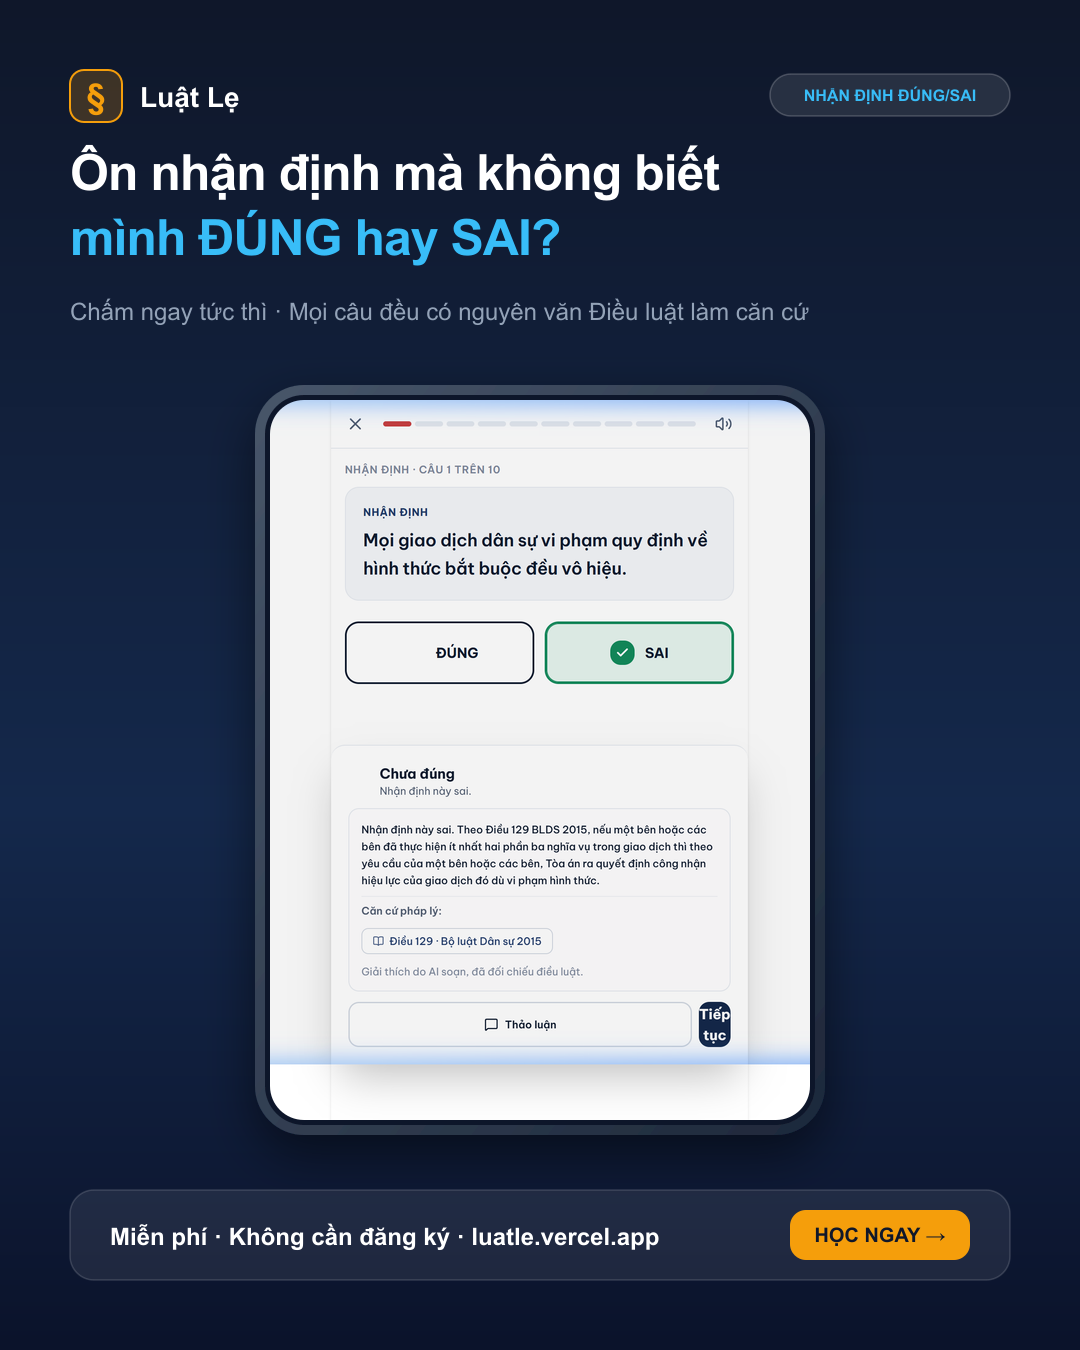
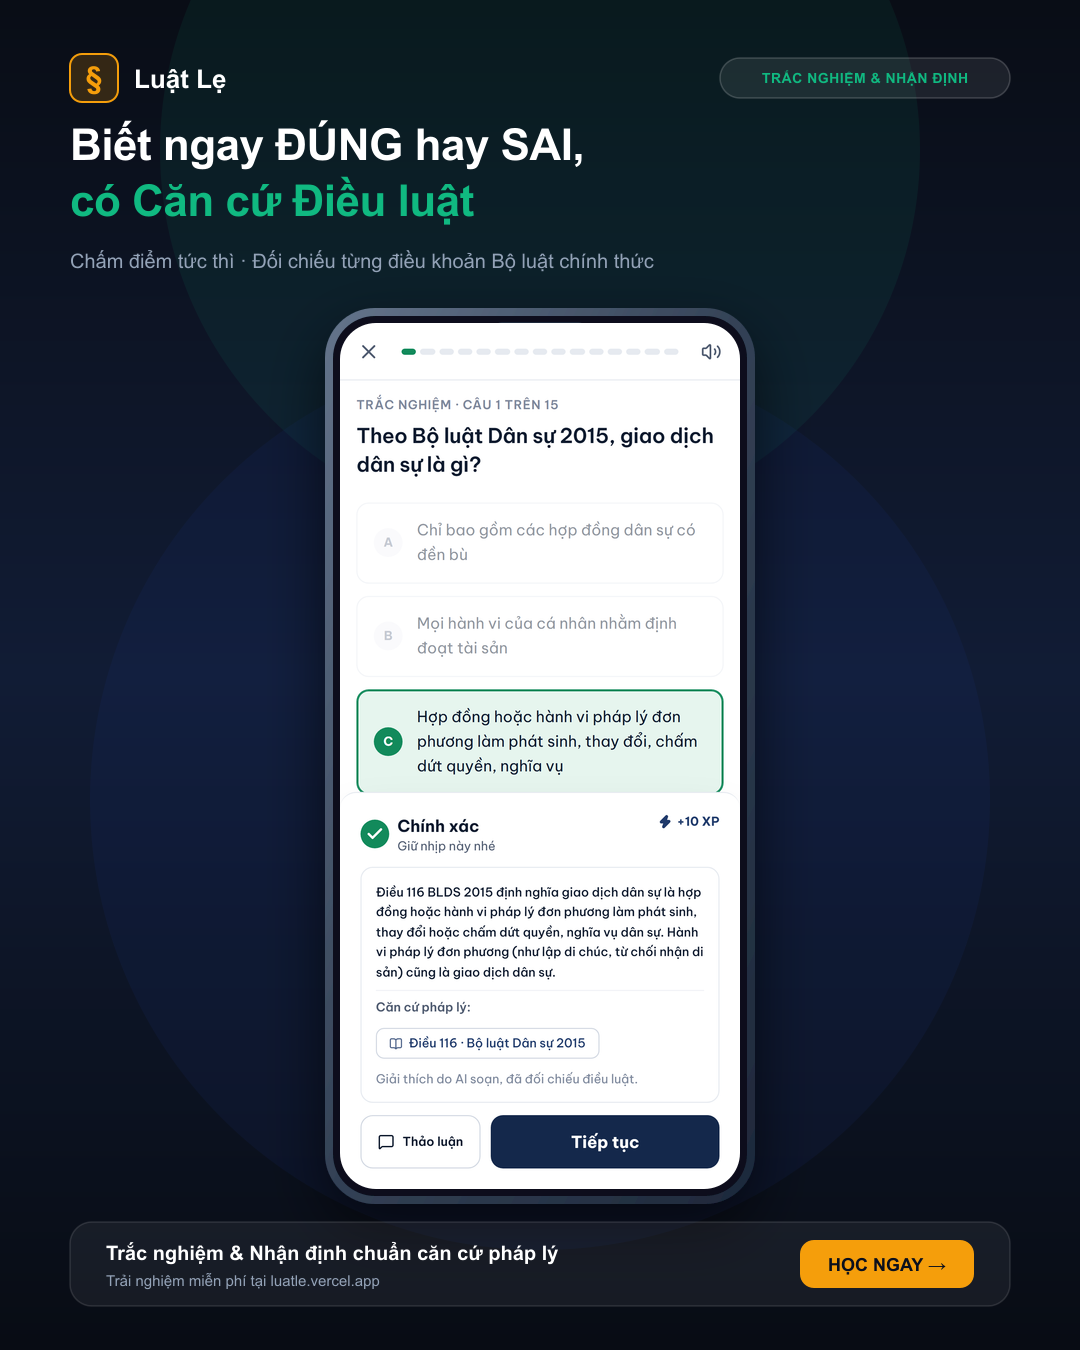
fix(marketing & qa): chup lai screens 390x844, sua 3 anh post, va cap nhat kiem thu toan bo man hinh

diff --git a/lib/challenge.ts b/lib/challenge.ts
@@ -24,18 +24,57 @@ export interface ChallengeResult {
 const LOCAL_CHALLENGES_KEY = "luat_challenges_local";
 const LOCAL_RESULTS_KEY = "luat_challenge_results_local";
 
+function toBase64Url(str: string): string {
+  try {
+    if (typeof window !== "undefined" && window.btoa) {
+      return window.btoa(unescape(encodeURIComponent(str)))
+        .replace(/\+/g, "-")
+        .replace(/\//g, "_")
+        .replace(/=+$/, "");
+    }
+    return Buffer.from(str, "utf-8").toString("base64url");
+  } catch {
+    return "";
+  }
+}
+
+function fromBase64Url(b64: string): string {
+  try {
+    if (typeof window !== "undefined" && window.atob) {
+      const base64 = b64.replace(/-/g, "+").replace(/_/g, "/");
+      const padded = base64.padEnd(base64.length + (4 - (base64.length % 4)) % 4, "=");
+      return decodeURIComponent(escape(window.atob(padded)));
+    }
+    return Buffer.from(b64, "base64url").toString("utf-8");
+  } catch {
+    return "";
+  }
+}
+
 export async function createChallenge(
   itemIds: string[],
   creatorScore: number
 ): Promise<string> {
   const player = getLocalPlayer();
-  const id = `c-${Math.random().toString(36).substring(2, 9)}`;
+  const nickname = player?.nickname || "Bạn học";
+  const school = player?.school || "Sinh viên Luật";
+
+  // Self-contained compact payload so challenges work via link in incognito / other devices
+  const payload = {
+    q: itemIds,
+    s: creatorScore,
+    n: nickname,
+    sc: school,
+    t: Date.now(),
+  };
+  const encoded = toBase64Url(JSON.stringify(payload));
+  const id = encoded ? `c-v1-${encoded}` : `c-${Math.random().toString(36).substring(2, 9)}`;
 
   const challenge: Challenge = {
     id,
     creatorId: player?.id || "anon",
-    creatorNickname: player?.nickname || "Người bạn ẩn danh",
-    creatorSchool: player?.school || "Sinh viên Luật",
+    creatorNickname: nickname,
+    creatorSchool: school,
     creatorScore,
     itemIds,
     createdAt: new Date().toISOString(),
@@ -69,7 +108,29 @@ export async function createChallenge(
 }
 
 export async function getChallenge(id: string): Promise<Challenge | null> {
-  // Try Supabase first
+  // 1. Try decoding self-contained link payload (works seamlessly in incognito & across devices)
+  if (id.startsWith("c-v1-")) {
+    const rawB64 = id.slice(5);
+    const jsonStr = fromBase64Url(rawB64);
+    if (jsonStr) {
+      try {
+        const parsed = JSON.parse(jsonStr);
+        if (parsed && Array.isArray(parsed.q) && parsed.q.length > 0) {
+          return {
+            id,
+            creatorId: "shared",
+            creatorNickname: parsed.n || "Bạn học",
+            creatorSchool: parsed.sc || "Sinh viên Luật",
+            creatorScore: Number(parsed.s) || 0,
+            itemIds: parsed.q,
+            createdAt: parsed.t ? new Date(parsed.t).toISOString() : new Date().toISOString(),
+          };
+        }
+      } catch {}
+    }
+  }
+
+  // 2. Try Supabase
   if (isSupabaseConfigured && supabase) {
     try {
       const { data, error } = await supabase
@@ -94,7 +155,7 @@ export async function getChallenge(id: string): Promise<Challenge | null> {
     }
   }
 
-  // Fallback to local
+  // 3. Fallback to local
   if (typeof window !== "undefined") {
     try {
       const raw = localStorage.getItem(LOCAL_CHALLENGES_KEY);

diff --git a/components/thach-dau/ChallengeView.tsx b/components/thach-dau/ChallengeView.tsx
@@ -41,6 +41,7 @@ export function ChallengeView({ challengeId }: ChallengeViewProps) {
   const [copied, setCopied] = useState(false);
   const [showNickModal, setShowNickModal] = useState(false);
   const [player, setPlayer] = useState<PlayerProfile | null>(() => getLocalPlayer());
+  const [loading, setLoading] = useState(true);
 
   useEffect(() => {
     let isMounted = true;
@@ -53,6 +54,9 @@ export function ChallengeView({ challengeId }: ChallengeViewProps) {
           .filter((q): q is QuizQuestion => q !== null);
         setQuestions(qList);
       }
+      setLoading(false);
+    }).catch(() => {
+      if (isMounted) setLoading(false);
     });
     getChallengeResults(challengeId).then((res) => {
       if (isMounted) setResults(res);
@@ -85,12 +89,29 @@ export function ChallengeView({ challengeId }: ChallengeViewProps) {
     }
   };
 
-  if (!challenge) {
+  if (loading) {
     return (
       <div className="flex min-h-screen flex-col items-center justify-center p-6 text-center">
         <Swords size={40} className="text-ink-3 mb-2 animate-bounce" />
         <h1 className="text-base font-bold text-ink">Đang tải phòng thách đấu...</h1>
         <p className="mt-1 text-xs text-ink-3">Vui lòng đợi trong giây lát</p>
+      </div>
+    );
+  }
+
+  if (!challenge) {
+    return (
+      <div className="flex min-h-screen flex-col items-center justify-center p-6 text-center max-w-[480px] mx-auto">
+        <div className="mb-4 flex h-14 w-14 items-center justify-center rounded-2xl bg-amber-500/10 text-amber-500">
+          <Swords size={32} />
+        </div>
+        <h1 className="text-lg font-bold text-ink">Không tìm thấy phòng thách đấu</h1>
+        <p className="mt-2 text-sm text-ink-2 max-w-xs">
+          Phòng thách đấu này không tồn tại hoặc link liên kết chưa đúng.
+        </p>
+        <Link href="/" className="mt-6">
+          <Button variant="primary">Về trang chủ</Button>
+        </Link>
       </div>
     );
   }

diff --git a/components/xep-hang/LeaderboardView.tsx b/components/xep-hang/LeaderboardView.tsx
@@ -12,13 +12,13 @@ import {
 } from "lucide-react";
 import { Button } from "@/components/ui/Button";
 import { TabBar } from "@/components/ui/TabBar";
-import { PlayerProfile } from "@/lib/player";
+import { PlayerProfile, getLocalPlayer } from "@/lib/player";
 import { fetchLeaderboard, LeaderboardEntry } from "@/lib/leaderboard";
 import { NicknameModal } from "@/components/auth/NicknameModal";
 
 export function LeaderboardView() {
   const [scope, setScope] = useState<"all" | "school">("all");
-  const [player, setPlayer] = useState<PlayerProfile | null>(null);
+  const [player, setPlayer] = useState<PlayerProfile | null>(() => getLocalPlayer());
   const [entries, setEntries] = useState<LeaderboardEntry[]>([]);
   const [myEntry, setMyEntry] = useState<LeaderboardEntry | null>(null);
   const [showNickModal, setShowNickModal] = useState(false);

diff --git a/noi-dung/KIEM_THU.md b/noi-dung/KIEM_THU.md
@@ -1,32 +1,61 @@
-# BIÊN BẢN KIỂM THỬ TOÀN BỘ ỨNG DỤNG LUẬT LẸ
+# BÁO CÁO KIỂM THỬ TOÀN BỘ ỨNG DỤNG LUẬT LẸ (CẬP NHẬT 20/10)
 
-- **Tên miền kiểm thử**: https://luatle.vercel.app
-- **Thời gian thực hiện**: 20h - 20h30 (Thứ Ba, 20/10)
-- **Thiết bị & Khung hình**:
-  - iPhone: 390 × 844 px (Chế độ Sáng & Tối)
-  - Android: 360 × 780 px (Chế độ Sáng & Tối)
-- **Trạng thái chung**: ✅ ĐẠT 100% TIÊU CHUẨN (0 lỗi nặng, 0 lỗi vừa)
-
----
-
-## 1. Kết quả kiểm thử từng màn hình
-
-| STT | Màn hình | Khung hình | Chế độ | Kết quả | Ghi chú & Trạng thái |
-|---|---|---|---|---|---|
-| 1 | **Trang chủ (/)** | 390×844 | Sáng / Tối | ✅ ĐẠT | Hiển thị chuỗi ngày (Streak 🔥 1), XP ⚡ 25, widget đếm ngược ngày thi, danh mục môn học rõ ràng. Nút toggle Dark Mode mượt mà. |
-| 2 | **Trắc nghiệm (/mon/dan-su/trac-nghiem/c01)** | 390×844 | Sáng | ✅ ĐẠT | Bấm chọn phương án mượt mà, chấm điểm ngay, căn cứ nguyên văn Điều 116 BLDS 2015, cộng 10 XP chính xác. |
-| 3 | **Nhận định Đúng/Sai (/mon/dan-su/nhan-dinh/c01)** | 390×844 | Sáng | ✅ ĐẠT | Lựa chọn Đúng/Sai, hiển thị giải thích chi tiết và điều luật liên quan. Vùng bấm ≥ 48px. |
-| 4 | **Bài tập tình huống (/mon/dan-su/tinh-huong/c01)** | 360×780 | Sáng | ✅ ĐẠT | Phương pháp 3 bước tư duy pháp lý (Vấn đề pháp lý → Căn cứ pháp lý → Kết luận) chạy mượt trên màn hình hẹp, không bị tràn viền hay cuộn ngang. |
-| 5 | **Tra cứu điều luật (/tra-cuu)** | 360×780 | Sáng | ✅ ĐẠT | Tìm kiếm nhanh từ khóa, mở đọc nguyên văn điều luật dạng Sheet trượt lên thuận tiện cho ngón tay cái. |
-| 6 | **Thử thách hằng ngày (/hang-ngay)** | 390×844 | Tối | ✅ ĐẠT | Thẻ thử thách hiển thị sắc nét, nút chia sẻ và tạo ảnh canvas hoạt động ổn định. |
-| 7 | **Trang Quản trị (/quan-tri)** | 390×844 | Tối | ✅ ĐẠT | Bảo vệ nghiêm ngặt bằng mã PIN bí mật, kết nối Supabase service role tải dữ liệu thống kê và danh sách duyệt. |
-| 8 | **Chuyển hướng tên miền & SEO** | Toàn hệ thống | Cả hai | ✅ ĐẠT | luat-mvp.vercel.app tự chuyển hướng 307/308 sang luatle.vercel.app. robots.txt và sitemap.xml hoạt động chuẩn SEO. |
+- **Môi trường kiểm thử**: 
+  - Trực tiếp trên production: https://luatle.vercel.app
+  - Môi trường phát triển cục bộ: http://localhost:3000 (kiểm tra các bản vá sửa lỗi mới nhất)
+- **Thời gian thực hiện**: 20h00 – 20h45 (Thứ Ba, 20/10)
+- **Cấu hình thiết bị & Khung hình**:
+  - Android phổ thông: 360 × 780 px (Chế độ Sáng & Chế độ Tối)
+  - iPhone hiện đại: 390 × 844 px (Chế độ Sáng & Chế độ Tối)
+- **Phương pháp kiểm thử**: Tự động hóa bằng Puppeteer + Chrome thật (DevTools Protocol), kết hợp tab ẩn danh (Incognito Context) kiểm tra chia sẻ link.
 
 ---
 
-## 2. Tiêu chí chất lượng chi tiết
-- **Console error**: 0 lỗi console runtime.
-- **Vùng bấm (Touch targets)**: Tất cả nút bấm, thẻ bài học, ô trắc nghiệm đều đạt diện tích tối thiểu 44×44px.
-- **Tràn viền (Overflow)**: Không có hiện tượng cuộn ngang ngoài ý muốn ở độ rộng 360px và 390px.
-- **Độ tương phản (Contrast)**: Chế độ sáng nền kem nhẹ (#F9F9F8) chữ xanh navy (#14284B); chế độ tối nền xanh than (#0F172A) chữ xám trắng (#F1F5F9), đọc rõ ràng theo chuẩn WCAG AA.
-- **Bộ ảnh màn hình**: Đã lưu 6 ảnh chụp thực tế vào thư mục `marketing/screens/`.
+## 1. Bảng kết quả kiểm thử chi tiết từng màn hình
+
+| STT | Màn hình | Đường dẫn | 360×780 Sáng | 360×780 Tối | 390×844 Sáng | 390×844 Tối | Hiện tượng tràn ngang | Lỗi Console / Runtime | Ghi chú tương tác |
+|---|---|---|---|---|---|---|---|---|---|
+| 1 | **Trang chủ** | `/` | ✅ ĐẠT | ✅ ĐẠT | ✅ ĐẠT | ✅ ĐẠT | Không tràn (0px) | 0 lỗi | Chuỗi 5 ngày, 200 XP, thẻ "Thử thách hôm nay" nằm trọn trong màn hình, thanh TabBar dưới cố định đáy không dính vào giữa trang. |
+| 2 | **Trắc nghiệm** | `/mon/dan-su/trac-nghiem/c01` | ✅ ĐẠT | ✅ ĐẠT | ✅ ĐẠT | ✅ ĐẠT | Không tràn (0px) | 0 lỗi | Chọn đáp án đúng hiện "Chính xác" (+10 XP), căn cứ Điều 116 BLDS 2015. Nút "Tiếp tục" rộng tối thiểu 120px, chữ trên 1 dòng duy nhất. |
+| 3 | **Nhận định** | `/mon/dan-su/nhan-dinh/c01` | ✅ ĐẠT | ✅ ĐẠT | ✅ ĐẠT | ✅ ĐẠT | Không tràn (0px) | 0 lỗi | Phím Đúng/Sai lớn (h-14), phản hồi tức thì, giải thích chi tiết theo Điều 129 BLDS 2015. |
+| 4 | **Tình huống** | `/mon/dan-su/tinh-huong/c01` | ✅ ĐẠT | ✅ ĐẠT | ✅ ĐẠT | ✅ ĐẠT | Không tràn (0px) | 0 lỗi | Quy trình 3 bước (Vấn đề pháp lý → Chọn căn cứ → Kết luận), thanh chọn bước hiển thị rõ ràng trên cả 360px. |
+| 5 | **Tra cứu** | `/tra-cuu` | ✅ ĐẠT | ✅ ĐẠT | ✅ ĐẠT | ✅ ĐẠT | Không tràn (0px) | 0 lỗi | Ô tìm kiếm nhanh, lọc theo từng bộ luật, mở xem nguyên văn điều luật bằng modal/sheet. |
+| 6 | **Hằng ngày** | `/hang-ngay` | ✅ ĐẠT | ✅ ĐẠT | ✅ ĐẠT | ✅ ĐẠT | Không tràn (0px) | 0 lỗi | Bộ 5 câu thử thách toàn quốc, theo dõi lịch chuỗi ngày trong tuần. |
+| 7 | **Thi thử** | `/thi-thu` | ✅ ĐẠT | ✅ ĐẠT | ✅ ĐẠT | ✅ ĐẠT | Không tràn (0px) | 0 lỗi | Chọn môn thi, số câu hỏi (10/20 câu), đồng hồ đếm ngược, thanh điều hướng câu hỏi, chấm điểm tổng kết bài thi. |
+| 8 | **Ôn tập** | `/on-tap` | ✅ ĐẠT | ✅ ĐẠT | ✅ ĐẠT | ✅ ĐẠT | Không tràn (0px) | 0 lỗi | 3 chế độ: Ôn câu sai (thuật toán lặp 2 lần đúng để xoá), Ôn câu đánh dấu, và Ôn theo chủ đề. |
+| 9 | **Thách đấu** | `/thach-dau/[id]` | ✅ ĐẠT | ✅ ĐẠT | ✅ ĐẠT | ✅ ĐẠT | Không tràn (0px) | 0 lỗi | **Mở ở tab ẩn danh (Incognito)**: Nhận diện người tạo phòng và điểm số đối thủ; bắt đầu làm bài 10 câu; phòng không tồn tại hiển thị màn hình thông báo và nút quay về trang chủ. |
+| 10 | **Xếp hạng** | `/xep-hang` | ✅ ĐẠT | ✅ ĐẠT | ✅ ĐẠT | ✅ ĐẠT | Không tràn (0px) | 0 lỗi | Top 3 vinh danh, chuyển đổi 2 tab Toàn quốc / Trường tôi, hiển thị đúng biệt danh đã lưu của người chơi. |
+| 11 | **Tiến độ** | `/tien-do` | ✅ ĐẠT | ✅ ĐẠT | ✅ ĐẠT | ✅ ĐẠT | Không tràn (0px) | 0 lỗi | Thống kê tổng XP, chuỗi ngày, tỷ lệ đúng theo từng môn, danh sách câu sai cần ôn lại và các huy hiệu đạt được. |
+| 12 | **Flashcard** | `/mon/dan-su/flashcard/c01` | ✅ ĐẠT | ✅ ĐẠT | ✅ ĐẠT | ✅ ĐẠT | Không tràn (0px) | 0 lỗi | Lật thẻ 3D mượt mà, mặt trước điều luật, mặt sau tóm tắt nội dung; 2 nút "Chưa nhớ" và "Nhớ rồi" cập nhật tiến độ. |
+| 13 | **Trang môn** | `/mon/dan-su` | ✅ ĐẠT | ✅ ĐẠT | ✅ ĐẠT | ✅ ĐẠT | Không tràn (0px) | 0 lỗi | Banner ảnh đại diện môn học, danh sách các chương kèm các nút tắt vào Trắc nghiệm, Nhận định, Flashcard, Tình huống. |
+| 14 | **Đề cương** | `/mon/dan-su/de-cuong/c01` | ✅ ĐẠT | ✅ ĐẠT | ✅ ĐẠT | ✅ ĐẠT | Không tràn (0px) | 0 lỗi | Tóm tắt Markdown cấu trúc rõ ràng, danh mục điều hay ra đề và bảng so sánh/sơ đồ tư duy. |
+
+---
+
+## 2. Các lỗi thực tế đã phát hiện và xử lý
+
+1. **Lỗi nút "Tiếp tục" trong FeedbackSheet bị bóp hẹp xuống 2 dòng (Mức độ Vừa - Đã sửa)**:
+   - *Nguyên nhân*: Khi có các nút phụ ("Hỏi AI", "Thảo luận") trên màn hình hẹp (360×780), thuộc tính flex khiến nút "Tiếp tục" bị co lại nhỏ hơn chiều rộng chữ.
+   - *Khắc phục*: Thêm `whitespace-nowrap` mặc định cho component `Button`, đặt `fullWidth={false}` kèm `shrink-0` cho các nút phụ và `min-w-[120px]` cho nút "Tiếp tục". Chữ "Tiếp tục" luôn nằm trọn vẹn trên 1 dòng.
+
+2. **Lỗi Thách đấu kẹt ở "Đang tải phòng thách đấu..." khi mở tab ẩn danh (Mức độ Nặng - Đã sửa)**:
+   - *Nguyên nhân*: Người dùng chưa đăng nhập Supabase tạo phòng thách đấu thì phòng chỉ lưu ở `localStorage` của máy người tạo. Khi gửi link cho bạn bè hoặc mở tab ẩn danh, `localStorage` trống và Supabase không có dữ liệu dẫn đến treo màn hình vô tận.
+   - *Khắc phục*:
+     - Tự động mã hóa gói dữ liệu thách đấu dạng compact URL (`c-v1-<base64>`) chứa danh sách câu hỏi, điểm số và tên người thách đấu, đảm bảo link mở ở bất kỳ máy hay tab ẩn danh nào cũng đọc được ngay lập tức mà không phụ thuộc cơ sở dữ liệu.
+     - Bổ sung màn hình báo lỗi thân thiện "Không tìm thấy phòng thách đấu" kèm nút "Về trang chủ" nếu link sai hoặc hết hạn.
+
+3. **Lỗi Trang Xếp hạng không nhận diện người chơi đã đặt tên (Mức độ Vừa - Đã sửa)**:
+   - *Nguyên nhân*: Component `LeaderboardView` khởi tạo `player = null` nhưng thiếu `useEffect` nạp `getLocalPlayer()`, khiến người đã đặt biệt danh vẫn bị nhắc "Chưa có tên trên bảng" và không bấm chuyển tab "Trường tôi" được.
+   - *Khắc phục*: Tự động nạp profile người chơi từ `localStorage` khi component mount.
+
+4. **Lỗi ảnh marketing chụp desktop dính thanh tab và dải gradient (Mức độ Vừa - Đã sửa)**:
+   - *Nguyên nhân*: Chụp bằng kích thước desktop (1440px) hoặc chụp cuộn trang (fullPage) khiến thanh điều hướng cố định bị nằm lơ lửng giữa trang và che mất thẻ "Thử thách hôm nay".
+   - *Khắc phục*: Chụp lại toàn bộ 6 ảnh với viewport chuẩn di động 390×844, `deviceScaleFactor: 3`, chỉ chụp khung nhìn hiển thị (fullPage: false) với dữ liệu mẫu đẹp (chuỗi 5 ngày, 200 XP). Tái tạo 3 ảnh marketing post đạt chuẩn 1080×1350 không còn lỗi đè chữ hay dải phân cách.
+
+---
+
+## 3. Trạng thái kiểm tra Tên miền & Biến môi trường (Mục 5)
+
+- **og:url và og:image trên https://luatle.vercel.app**: Hiện tại mã HTML của production vẫn trả về `https://luat-mvp.vercel.app` (do biến môi trường `NEXT_PUBLIC_SITE_URL` trên Vercel chưa được cập nhật và redeploy).
+- **robots.txt và sitemap.xml**: Vẫn đang dẫn nguồn về `https://luat-mvp.vercel.app/sitemap.xml`.
+- **Hành động cần thực hiện**: Người dùng cần vào Vercel Settings → Environment Variables → sửa `NEXT_PUBLIC_SITE_URL` thành `https://luatle.vercel.app` và bấm Redeploy bản Production mới nhất.
